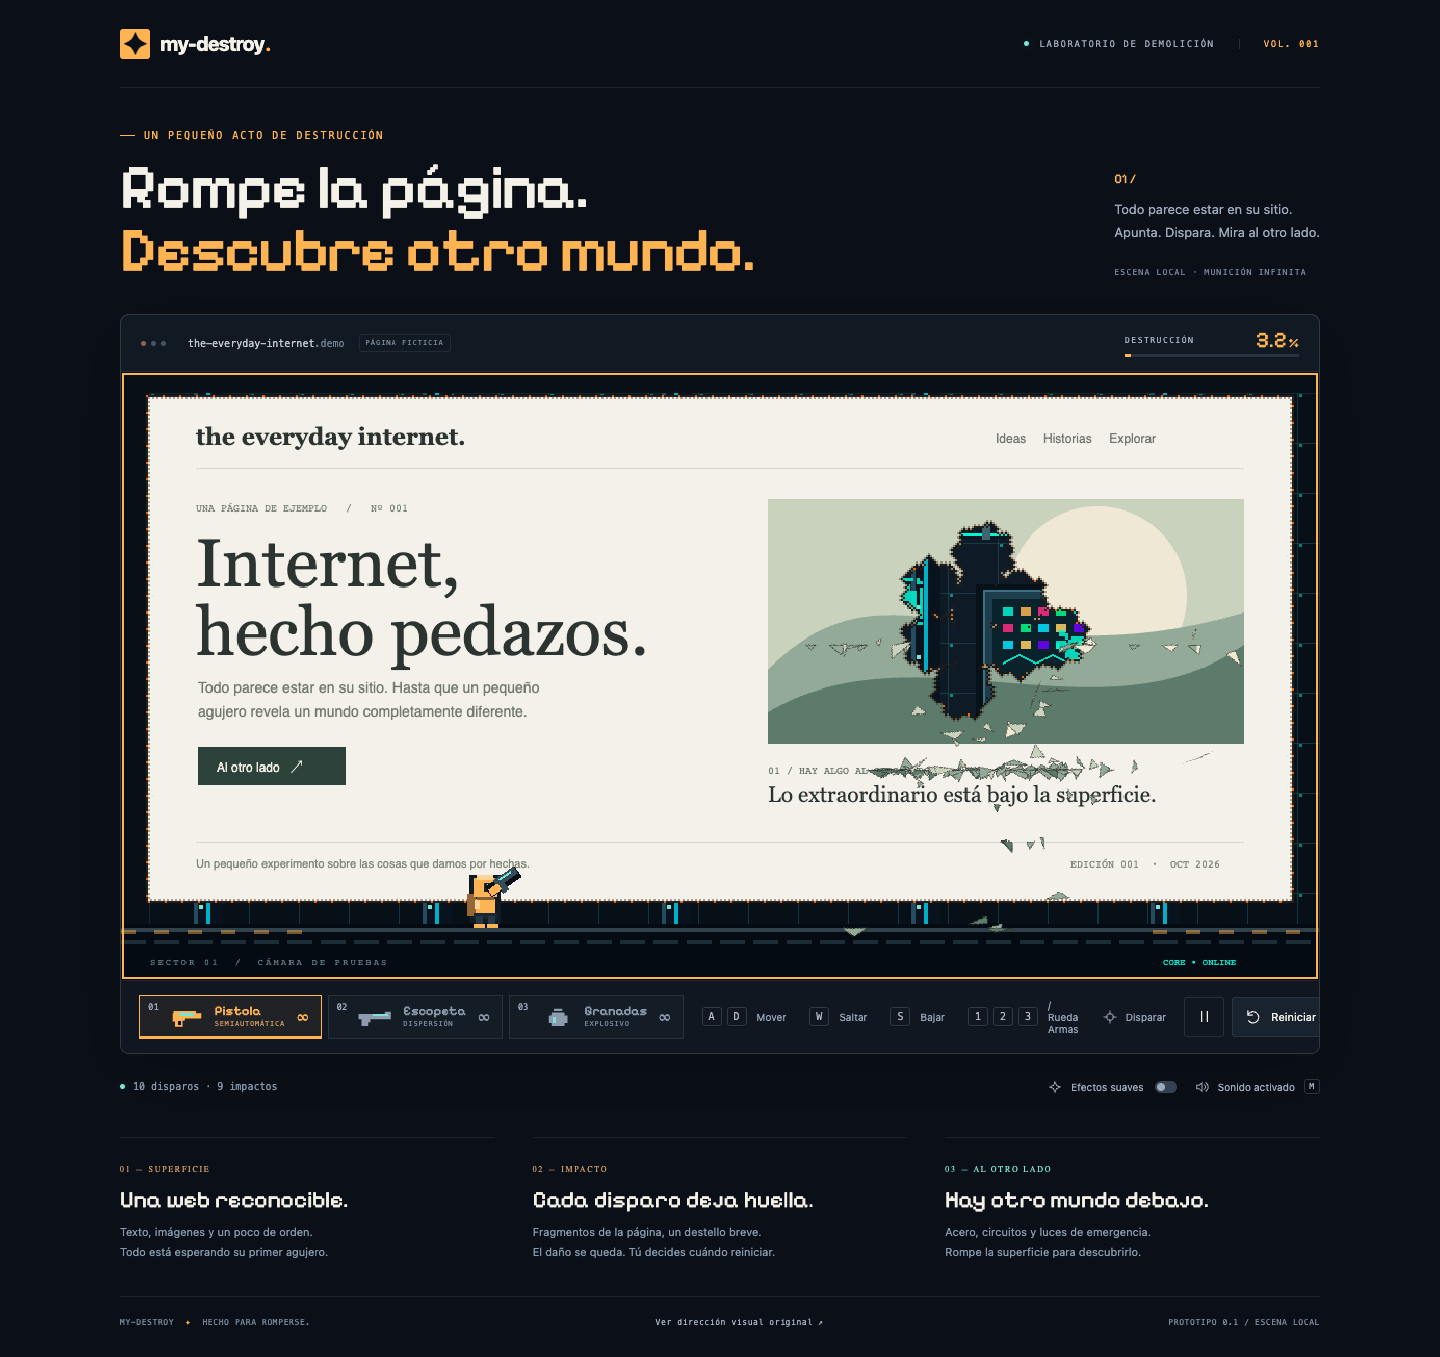
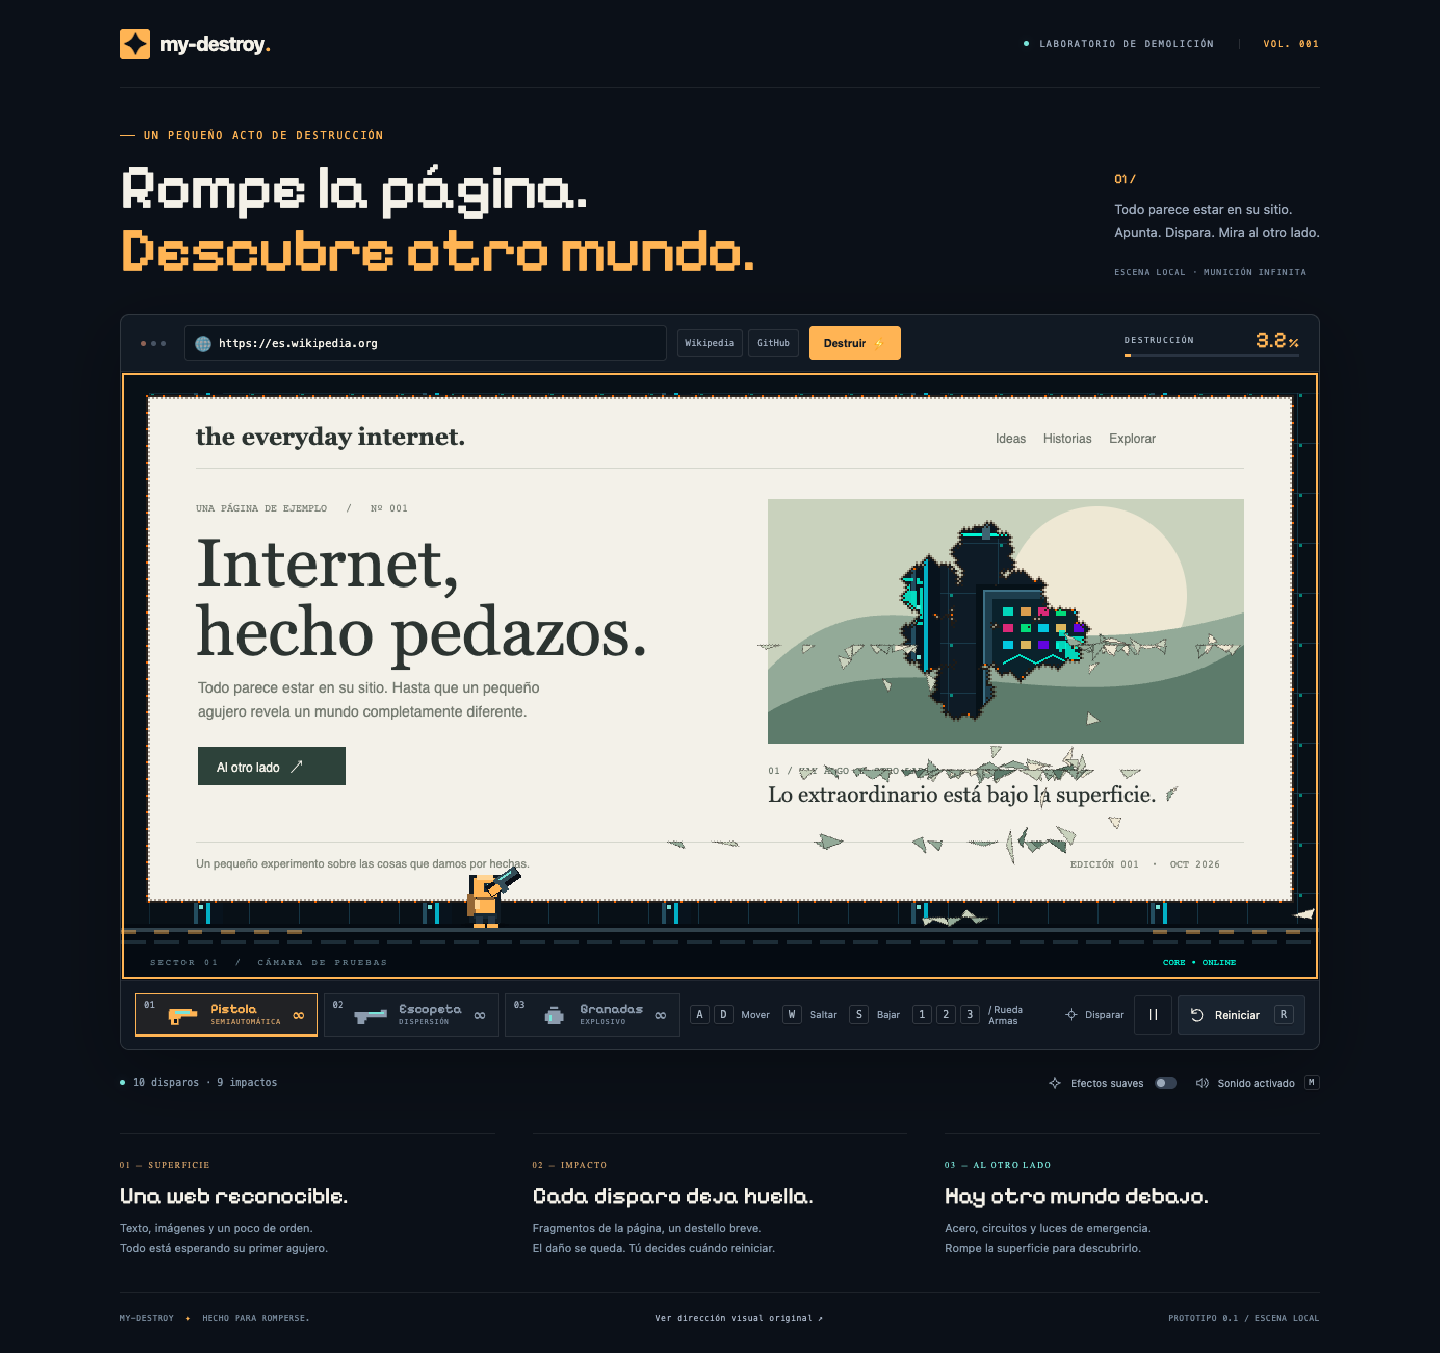
test(e2e): verificar flujo de captura de urls y desprendimiento de elementos dom

diff --git a/tests/scraper.spec.ts b/tests/scraper.spec.ts
@@ -1,0 +1,82 @@
+import { test, expect, type Page } from '@playwright/test';
+
+async function snapshot(page: Page) {
+  return page.evaluate(() => (window as any).__MY_DESTROY__.snapshot());
+}
+
+test.describe('Playwright Scraper + Dynamic Platforms + Detachables', () => {
+  test('preset buttons trigger scrape API and load dynamic platforms', async ({ page }) => {
+    await page.goto('/');
+    await expect(page.locator('canvas')).toHaveCount(1);
+    await expect(page.getByRole('button', { name: 'Reiniciar' })).toBeEnabled();
+    await expect(page.getByRole('button', { name: 'Wikipedia' })).toBeVisible();
+
+    const initial = await snapshot(page);
+    expect(initial.platforms).toBe(7);
+    expect(initial.detachables).toBe(2);
+
+    // Click Wikipedia preset
+    await page.getByRole('button', { name: 'Wikipedia' }).click();
+
+    // Wait for scrape API to resolve and load page
+    await expect(page.getByRole('button', { name: 'Volver a demo' })).toBeVisible({ timeout: 15000 });
+
+    const scraped = await snapshot(page);
+    expect(scraped.platforms).toBeGreaterThan(0);
+    expect(scraped.resets).toBeGreaterThan(0);
+
+    // Can shoot on the newly loaded page
+    const box = (await page.locator('canvas').boundingBox())!;
+    await page.mouse.click(box.x + box.width * 0.5, box.y + box.height * 0.4);
+    await page.waitForTimeout(200);
+
+    const shotState = await snapshot(page);
+    expect(shotState.shots).toBe(1);
+
+    // Click 'Volver a demo' restores original 7 platforms and 2 detachables
+    await page.getByRole('button', { name: 'Volver a demo' }).click();
+    await expect(page.getByRole('button', { name: 'Volver a demo' })).toHaveCount(0);
+
+    const restored = await snapshot(page);
+    expect(restored.platforms).toBe(7);
+    expect(restored.detachables).toBe(2);
+  });
+
+  test('DOM detachables drop when corners lose solid support', async ({ page }) => {
+    await page.goto('/');
+    await expect(page.locator('canvas')).toHaveCount(1);
+    await expect(page.getByRole('button', { name: 'Reiniciar' })).toBeEnabled();
+
+    const initial = await snapshot(page);
+    expect(initial.detachables).toBe(2);
+
+    const box = (await page.locator('canvas').boundingBox())!;
+
+    // Fire precision pistol shots at top-left and top-right anchors of the button card
+    // Button is at worldX=74, worldY=360, width=142, height=37
+    const fireWorld = async (wx: number, wy: number) => {
+      await page.mouse.click(box.x + (wx / 1152) * box.width, box.y + (wy / 584) * box.height);
+      await page.waitForTimeout(160);
+    };
+
+    // Destroy top-left anchor
+    await fireWorld(80, 365);
+    // Destroy top-right anchor
+    await fireWorld(210, 365);
+
+    const afterBlast = await snapshot(page);
+    expect(afterBlast.detachables).toBeLessThan(2);
+    expect(afterBlast.debris).toBeGreaterThan(0);
+  });
+
+  test('validates URL and rejects non-http protocols gracefully', async ({ page }) => {
+    await page.goto('/');
+    const input = page.locator('.url-input');
+
+    await input.fill('ftp://invalid-protocol.org');
+    await page.getByRole('button', { name: /Destruir/i }).click();
+
+    await expect(page.locator('.scrape-error-badge')).toBeVisible();
+    await expect(page.locator('.scrape-error-badge')).toContainText('http');
+  });
+});
